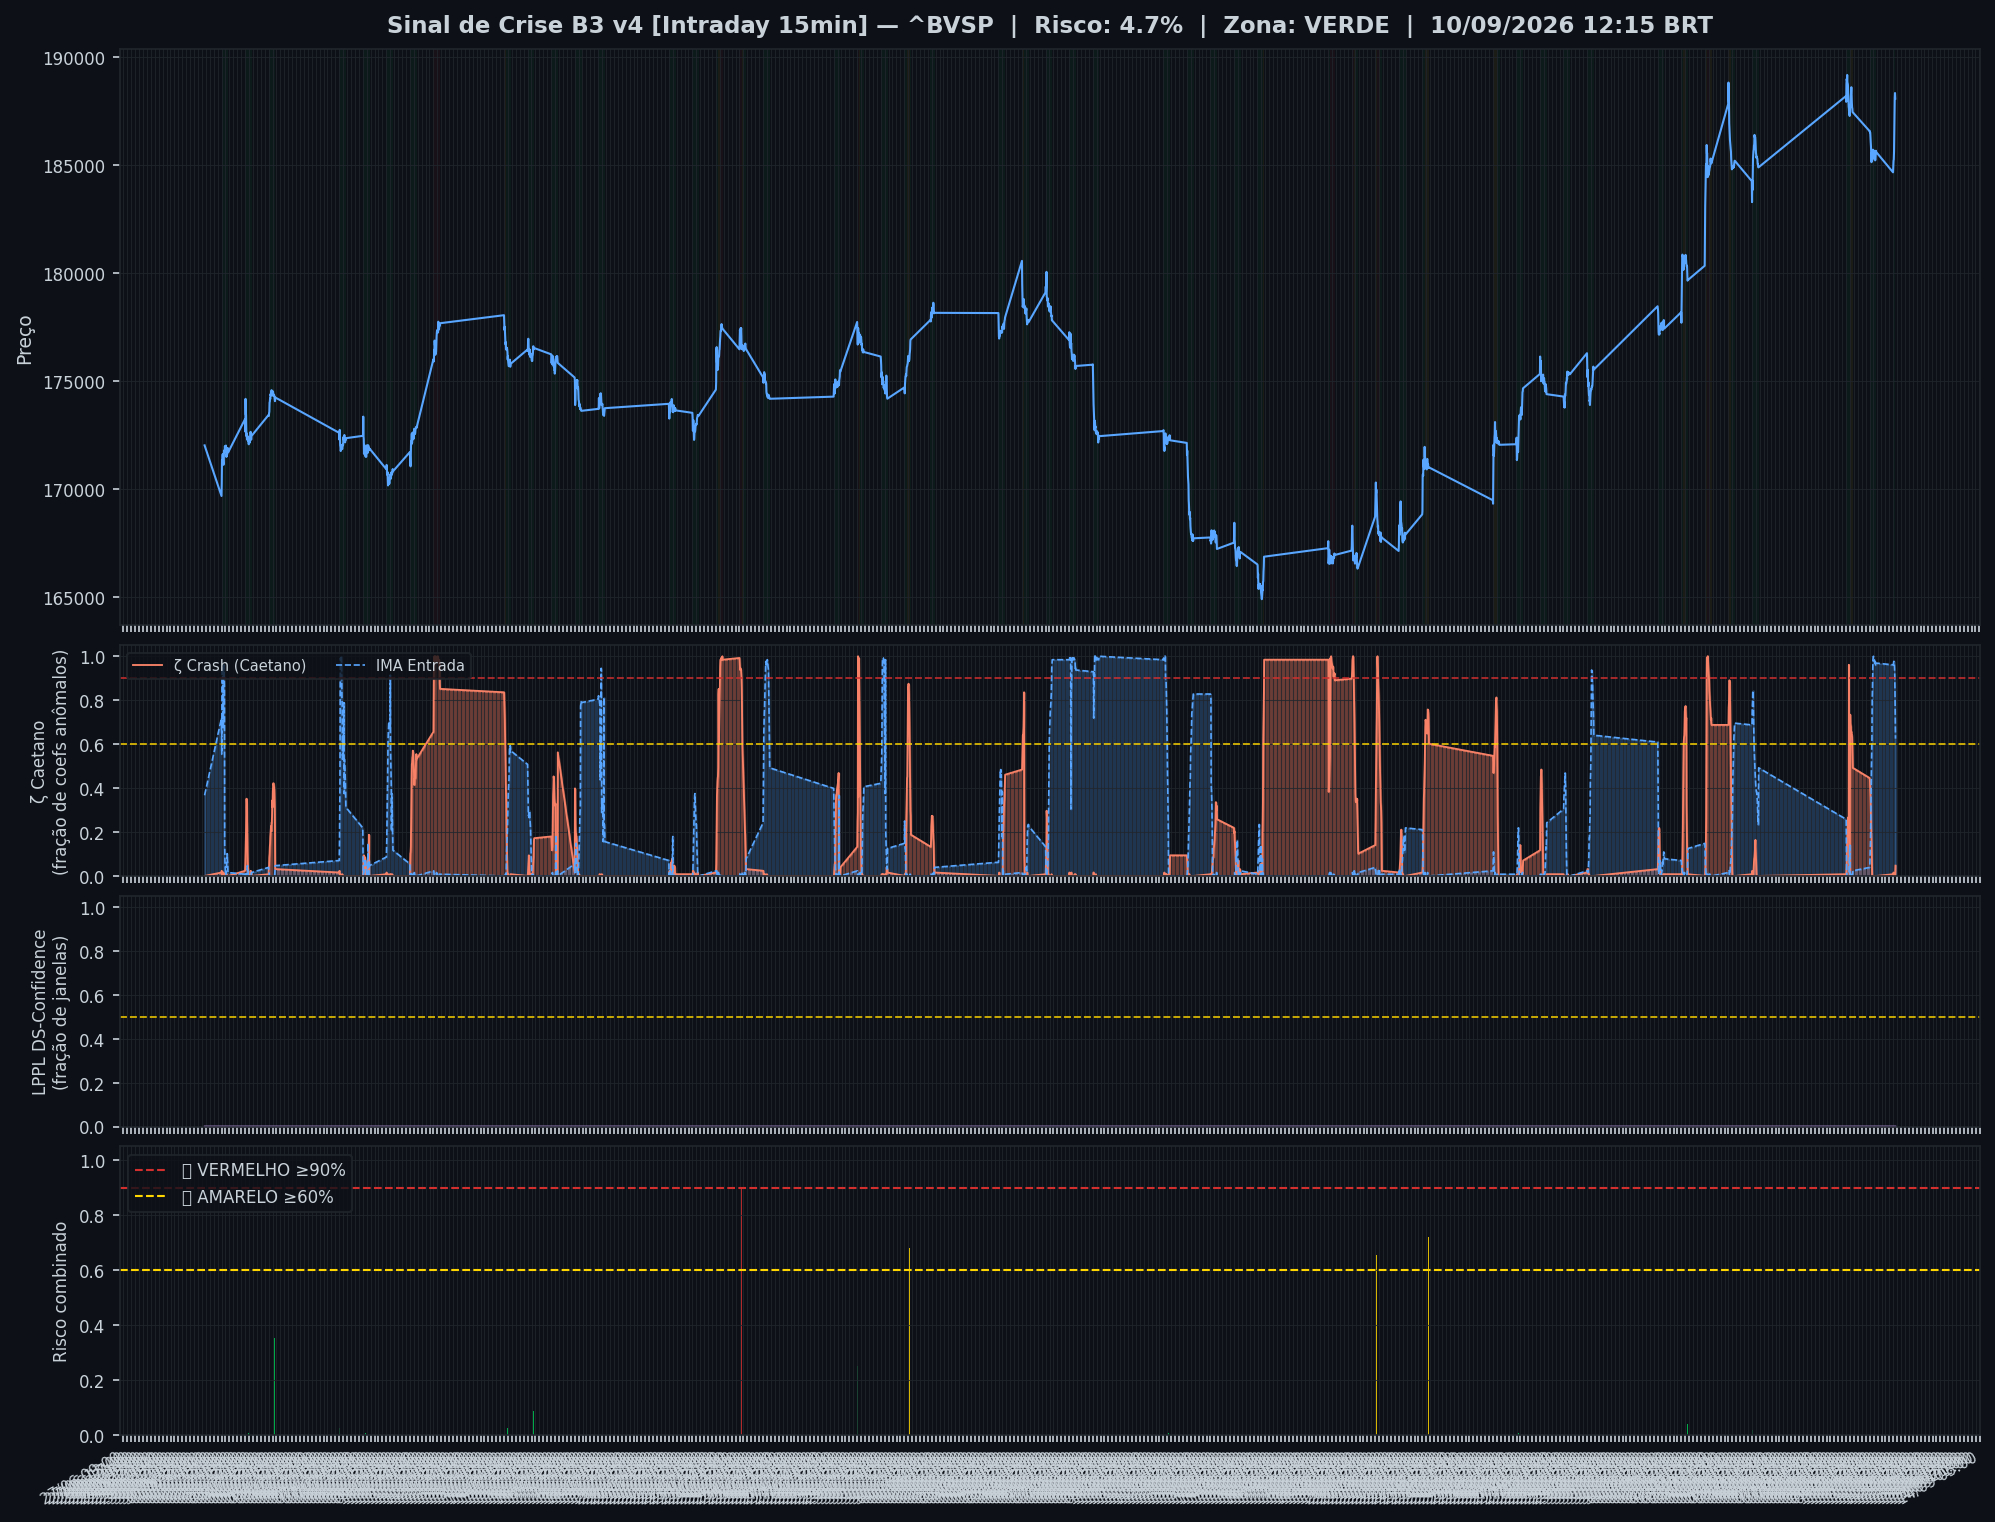
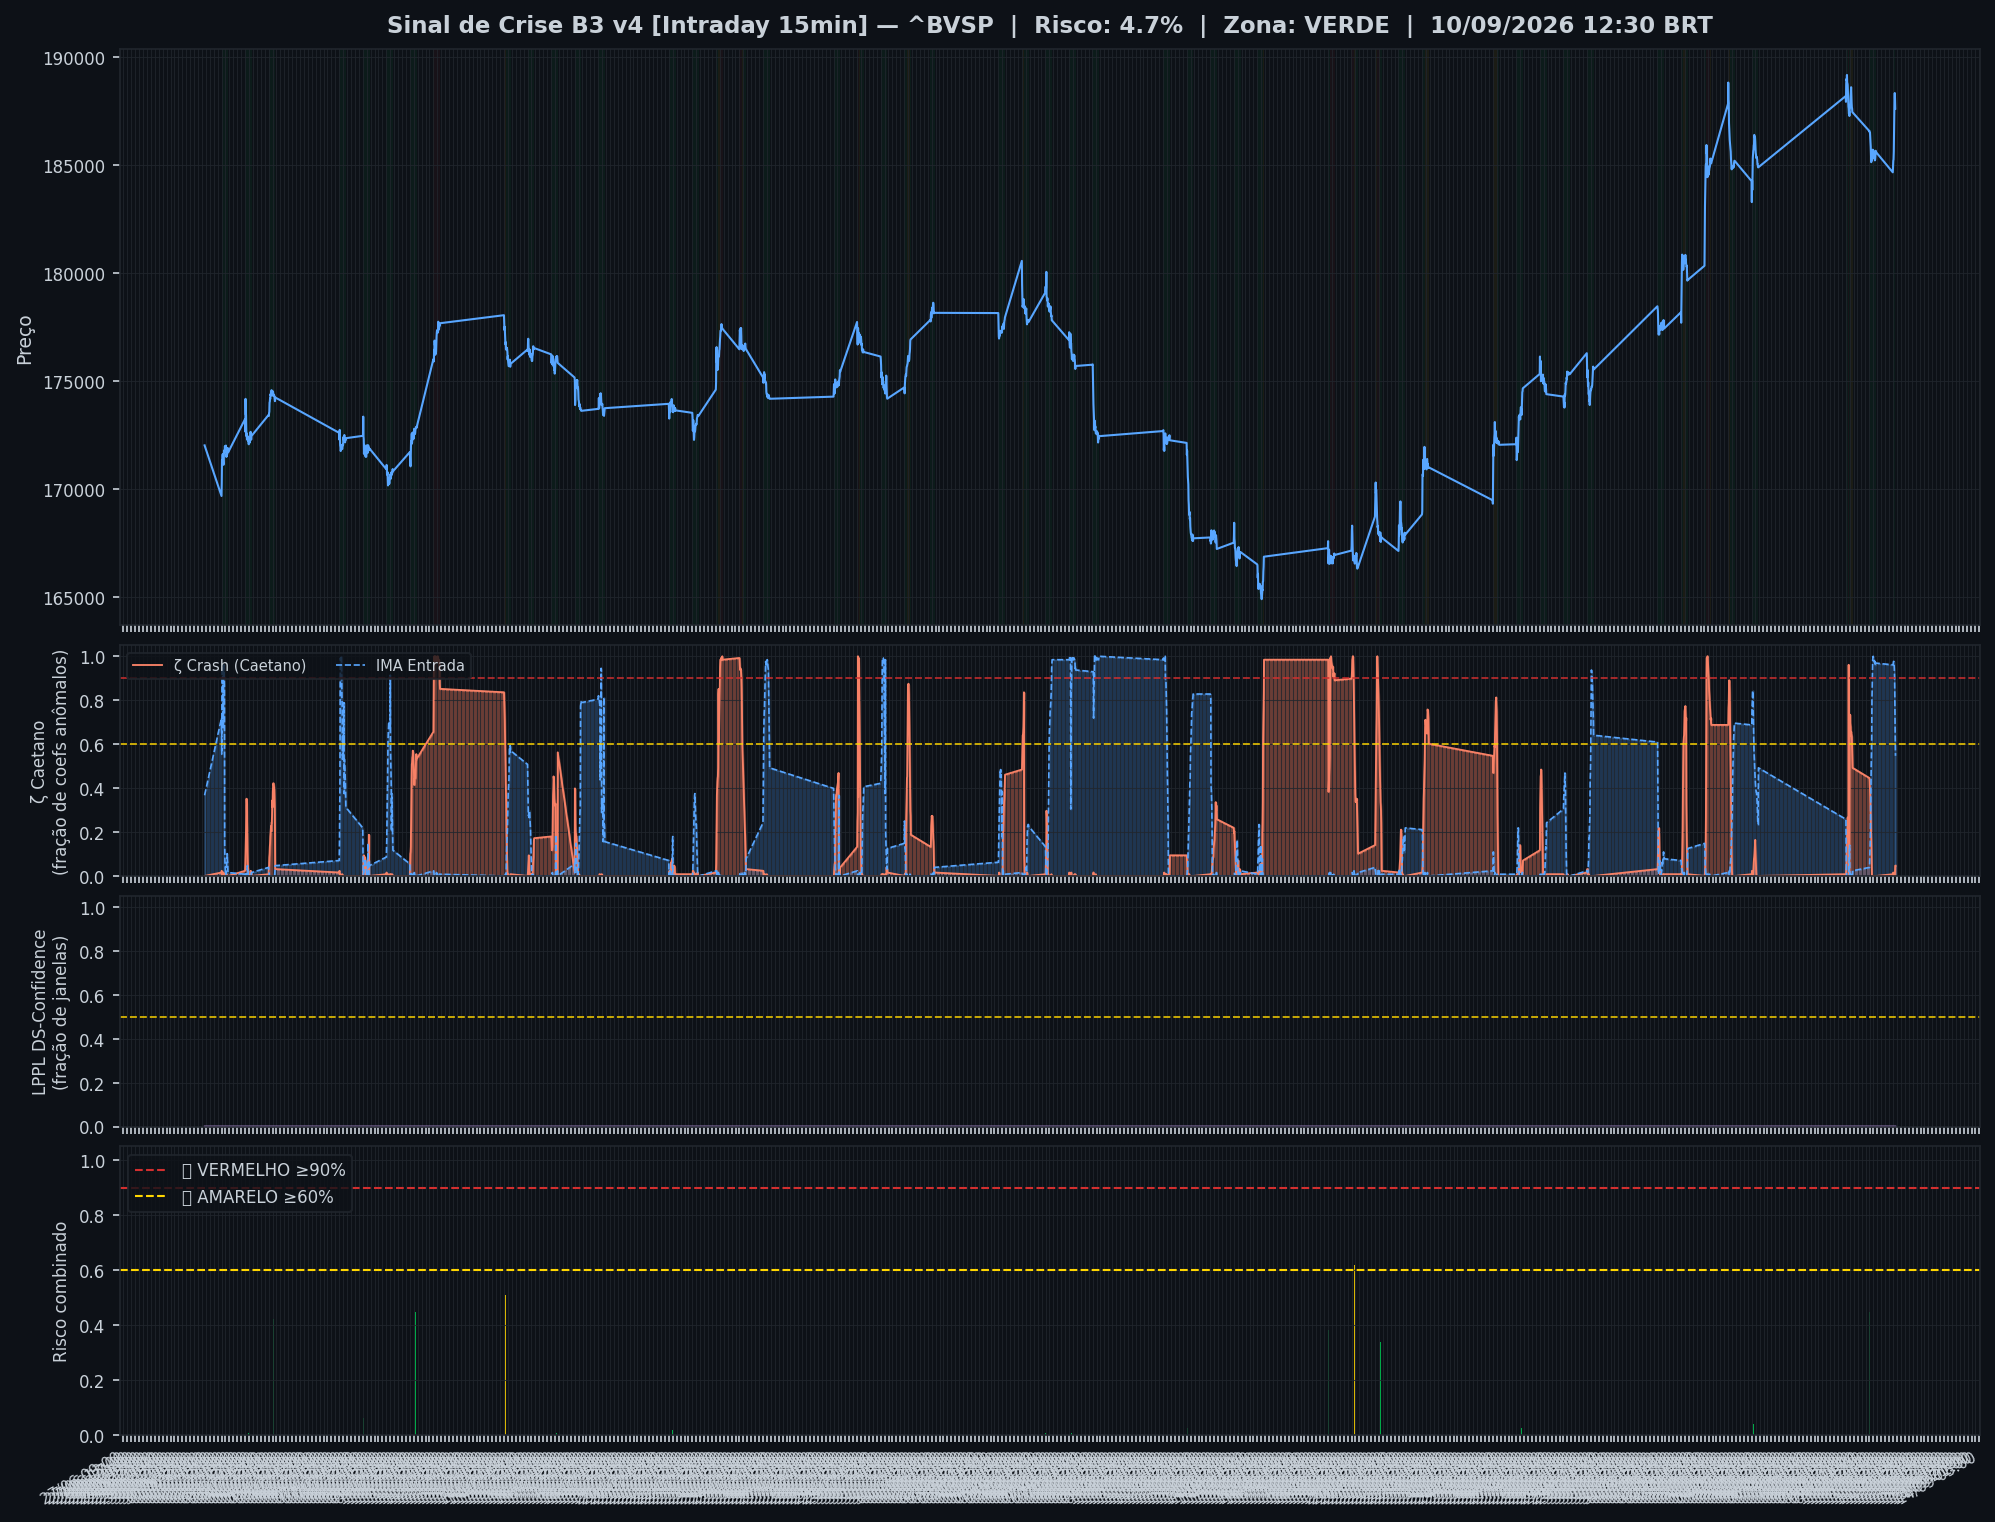
🤖 Auto: Sinal 10/09/2026 13:15

diff --git a/content/intraday/2026-09-10.md b/content/intraday/2026-09-10.md
@@ -1,10 +1,10 @@
 ---
-title: "🟢 Intraday 10/09/2026 12:15 BRT — VERDE"
+title: "🟢 Intraday 10/09/2026 12:30 BRT — VERDE"
 date: 2026-09-10
 tags: [intraday]
 ---
 
-> [!success] 🟢 **VERDE** — Risco 5% · ▲ +3 p.p. vs leitura anterior
+> [!success] 🟢 **VERDE** — Risco 5% · ＝ +0 p.p. vs leitura anterior
 > `█░░░░░░░░░░░░░░░░░░░`
 > Mercado sem sinais relevantes de estresse.
 
@@ -12,9 +12,9 @@ tags: [intraday]
 | Indicador | Valor |
 |---|---|
 | 🔴 ζ Crash — severidade da queda em curso | **5%** |
-| 🔵 ζ Entrada — estrutura de fundo | 62% |
+| 🔵 ζ Entrada — estrutura de fundo | 55% |
 | 🫧 LPPL DS-Confidence | 0% |
-| 📊 Ibovespa | 188.075 pts |
+| 📊 Ibovespa | 187.613 pts |
 
 ![Gráfico do sinal](../graficos/sinal_intraday.png)
 
@@ -22,6 +22,7 @@ tags: [intraday]
 
 | Data | Zona | Risco | IMA Crash | Entrada | LPPL |
 |---|---|---|---|---|---|
+| 2026-09-10 12:30 | 🟢 VERDE | **5%** | 5% | 55% | 0% |
 | 2026-09-10 12:15 | 🟢 VERDE | **5%** | 5% | 62% | 0% |
 | 2026-09-10 12:00 | 🟢 VERDE | **2%** | 2% | 70% | 0% |
 | 2026-09-10 11:45 | 🟢 VERDE | **0%** | 0% | 84% | 0% |
@@ -51,7 +52,6 @@ tags: [intraday]
 | 2026-09-09 12:45 | 🟢 VERDE | **0%** | 0% | 85% | 0% |
 | 2026-09-09 12:30 | 🟢 VERDE | **0%** | 0% | 80% | 0% |
 | 2026-09-09 12:15 | 🟢 VERDE | **2%** | 2% | 62% | 0% |
-| 2026-09-09 12:00 | 🟢 VERDE | **6%** | 6% | 58% | 0% |
 
 ## Monitor Multi-Ativo
 
@@ -59,35 +59,35 @@ tags: [intraday]
 
 | Zona | Ativo | Setor | IMA Crash | IMA Entrada |
 |---|---|---|---|---|
-| 🟢 | **USD/BRL** | Câmbio | 1.6% | 35.9% |
-| 🟢 | **VALE** | Mineração | 0.0% | 57.0% |
-| 🟢 | **ITAUUNIBANCO** | Financeiro | 0.0% | 57.0% |
-| 🟢 | **PETROBRAS** | Petróleo | 0.0% | 57.0% |
-| 🟢 | **PETROBRAS** | Petróleo | 0.0% | 57.0% |
-| 🟢 | **AXIA ENERGIA** | Energia | 0.0% | 57.0% |
-| 🟢 | **SABESP** | Saneamento | 0.0% | 57.0% |
-| 🟢 | **BRADESCO** | Financeiro | 0.0% | 57.0% |
-| 🟢 | **B3** | Financeiro | 0.0% | 57.8% |
-| 🟢 | **ITAUSA** | Financeiro | 0.0% | 57.0% |
-| 🟢 | **WEG** | Industrial | 0.0% | 57.0% |
-| 🟢 | **BTGP BANCO** | Financeiro | 0.0% | 57.0% |
-| 🟢 | **EMBRAER** | Outros | 0.0% | 57.0% |
-| 🟢 | **BRASIL** | Financeiro | 0.0% | 57.0% |
-| 🟢 | **AMBEV S/A** | Consumo | 0.0% | 57.8% |
-| 🟢 | **ENEVA** | Energia | 0.0% | 57.0% |
-| 🟢 | **EQUATORIAL** | Energia | 0.0% | 57.8% |
-| 🟢 | **COPEL** | Energia | 0.0% | 57.0% |
-| 🟢 | **PRIO** | Petróleo | 0.0% | 57.0% |
-| 🟢 | **VIBRA** | Energia | 0.0% | 57.0% |
-| 🟢 | **ULTRAPAR** | Outros | 0.0% | 57.8% |
-| 🟢 | **REDE D OR** | Saúde | 0.0% | 57.8% |
-| 🟢 | **LOCALIZA** | Aluguel | 0.0% | 57.0% |
-| 🟢 | **GERDAU** | Siderurgia | 0.0% | 57.0% |
-| 🟢 | **SUZANO S.A.** | Papel/Celulose | 0.0% | 57.0% |
+| 🟢 | **USD/BRL** | Câmbio | 2.3% | 19.5% |
+| 🟢 | **VALE** | Mineração | 1.6% | 35.9% |
+| 🟢 | **ITAUUNIBANCO** | Financeiro | 1.6% | 35.9% |
+| 🟢 | **PETROBRAS** | Petróleo | 1.6% | 35.9% |
+| 🟢 | **PETROBRAS** | Petróleo | 1.6% | 35.9% |
+| 🟢 | **AXIA ENERGIA** | Energia | 1.6% | 35.9% |
+| 🟢 | **SABESP** | Saneamento | 1.6% | 35.9% |
+| 🟢 | **BRADESCO** | Financeiro | 1.6% | 35.9% |
+| 🟢 | **B3** | Financeiro | 1.6% | 35.9% |
+| 🟢 | **ITAUSA** | Financeiro | 1.6% | 35.9% |
+| 🟢 | **WEG** | Industrial | 1.6% | 35.9% |
+| 🟢 | **BTGP BANCO** | Financeiro | 1.6% | 35.9% |
+| 🟢 | **EMBRAER** | Outros | 1.6% | 35.9% |
+| 🟢 | **BRASIL** | Financeiro | 1.6% | 35.9% |
+| 🟢 | **AMBEV S/A** | Consumo | 1.6% | 35.9% |
+| 🟢 | **ENEVA** | Energia | 1.6% | 35.9% |
+| 🟢 | **EQUATORIAL** | Energia | 1.6% | 35.9% |
+| 🟢 | **COPEL** | Energia | 1.6% | 35.9% |
+| 🟢 | **PRIO** | Petróleo | 1.6% | 35.9% |
+| 🟢 | **VIBRA** | Energia | 1.6% | 35.9% |
+| 🟢 | **ULTRAPAR** | Outros | 1.6% | 35.9% |
+| 🟢 | **REDE D OR** | Saúde | 1.6% | 35.9% |
+| 🟢 | **LOCALIZA** | Aluguel | 1.6% | 35.9% |
+| 🟢 | **GERDAU** | Siderurgia | 1.6% | 35.9% |
+| 🟢 | **SUZANO S.A.** | Papel/Celulose | 1.6% | 35.9% |
 
 ![Monitor multi-ativo](../graficos/multi_intraday.png)
 
-*Página atualizada em 10/09/2026 13:00 BRT (leitura da barra de 2026-09-10 12:15 BRT).*
+*Página atualizada em 10/09/2026 13:15 BRT (leitura da barra de 2026-09-10 12:30 BRT).*
 
 > [!info]- Como interpretar (clique para expandir)
 > - **ζ Crash**: fração dos coeficientes wavelet acima do corte (Caetano & Yoneyama 2009). Escala absoluta: ζ=0,90 = 90% dos coeficientes anômalos — historicamente, quedas com ζ≥0,90 foram mais fundas e mais longas. **Mede a severidade do movimento em curso, não prevê o início da queda.**

diff --git a/content/index.md b/content/index.md
@@ -8,9 +8,9 @@ tags: [home]
 
 Monitoramento diário e intraday do Ibovespa — **IMA Wavelet** (Prof. Marco Antonio Leonel Caetano, ITA/INSPER) + **LPPL DS-Confidence** (Prof. Didier Sornette, ETH-Zurich).
 
-*Última atualização: 10/09/2026 13:00 BRT · ^BVSP · Intraday 15min · v4*
+*Última atualização: 10/09/2026 13:15 BRT · ^BVSP · Intraday 15min · v4*
 
-> [!success] 🟢 **VERDE** — Risco 5% · ▲ +3 p.p. vs leitura anterior
+> [!success] 🟢 **VERDE** — Risco 5% · ＝ +0 p.p. vs leitura anterior
 > `█░░░░░░░░░░░░░░░░░░░`
 > Mercado sem sinais relevantes de estresse.
 
@@ -18,9 +18,9 @@ Monitoramento diário e intraday do Ibovespa — **IMA Wavelet** (Prof. Marco An
 | Indicador | Valor |
 |---|---|
 | 🔴 ζ Crash — severidade da queda em curso | **5%** |
-| 🔵 ζ Entrada — estrutura de fundo | 62% |
+| 🔵 ζ Entrada — estrutura de fundo | 55% |
 | 🫧 LPPL DS-Confidence | 0% |
-| 📊 Ibovespa | 188.075 pts |
+| 📊 Ibovespa | 187.613 pts |
 
 **Multi-ativo:** 0% em tensão (0🔴 0🟡 de 25 ativos)
 

diff --git a/content/historico.md b/content/historico.md
@@ -7,6 +7,7 @@ tags: [historico]
 
 | Data | Modo | Zona | Risco | IMA | LPPL |
 |---|---|---|---|---|---|
+| 2026-09-10 12:30 | intraday | 🟢 VERDE | 5% | 5% | 0% |
 | 2026-09-10 12:15 | intraday | 🟢 VERDE | 5% | 5% | 0% |
 | 2026-09-10 12:00 | intraday | 🟢 VERDE | 2% | 2% | 0% |
 | 2026-09-10 11:45 | intraday | 🟢 VERDE | 0% | 0% | 0% |
